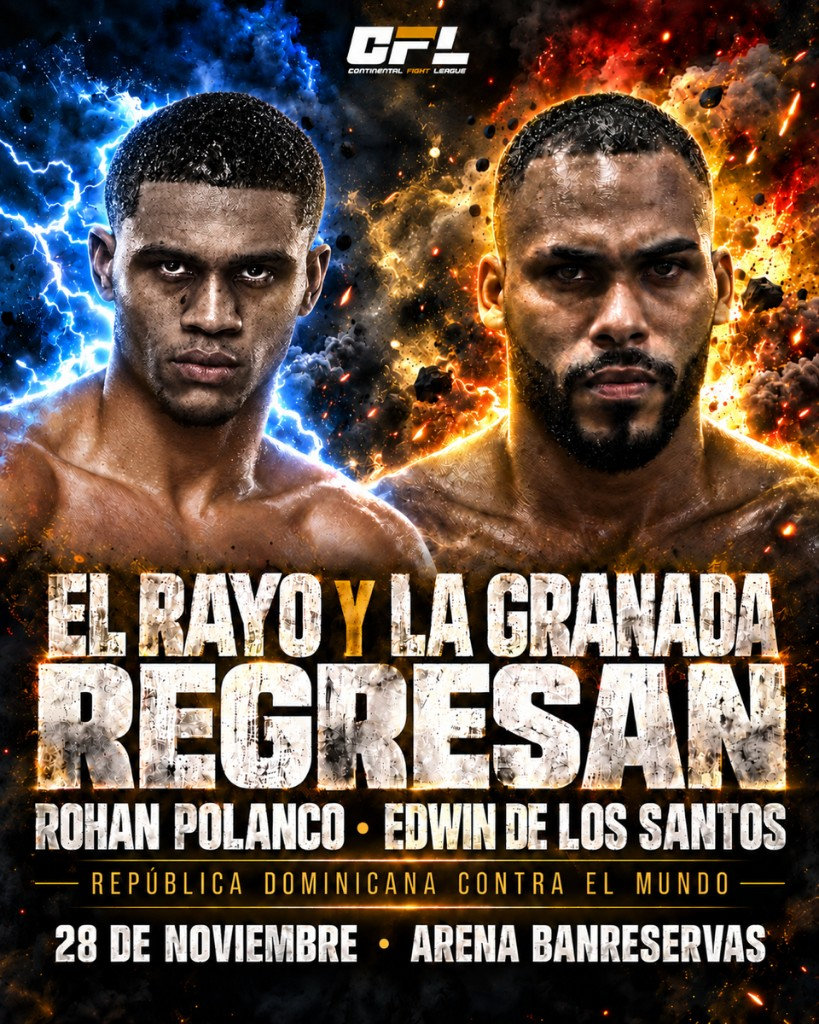
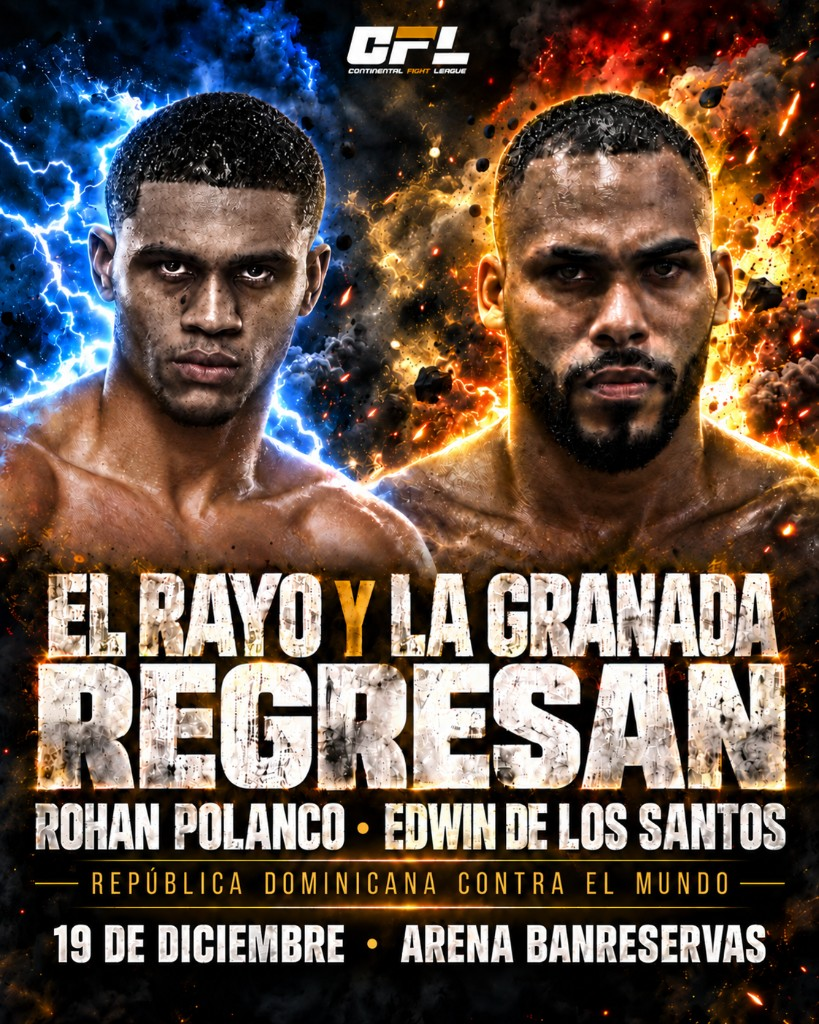
Update the homepage hero and event poster to the December 19 artwork.

diff --git a/index.html b/index.html
@@ -63,7 +63,7 @@
   <main id="main">
     <section class="hero" data-i18n-aria="hero_label" aria-label="CFL fight night">
       <div class="hero-slider" data-slider>
-        <article class="hero-slide hero-slide-premiere is-active" style="--hero-image: url('assets/cfl-arena-premiere.jpg?v=1');">
+        <article class="hero-slide hero-slide-premiere is-active" style="--hero-image: url('assets/cfl-arena-premiere.jpg?v=2');">
           <div class="hero-shade"></div>
           <div class="hero-content reveal">
             <p class="eyebrow" data-i18n="hero1_eyebrow">Fight night countdown</p>
@@ -146,7 +146,7 @@
 
       <article class="event-card reveal">
         <div class="event-card-media">
-          <img src="assets/el-rayo-y-la-granada.jpg?v=1" alt="El Rayo y La Granada regresan — Rohan Polanco y Edwin De Los Santos, 19 de diciembre, Arena Banreservas" loading="lazy" />
+          <img src="assets/el-rayo-y-la-granada.jpg?v=2" alt="El Rayo y La Granada regresan — Rohan Polanco y Edwin De Los Santos, 19 de diciembre, Arena Banreservas" loading="lazy" />
           <div class="event-date-badge">
             <span data-i18n="event_day">19</span>
             <strong data-i18n="event_month">dic</strong>

diff --git a/styles.css b/styles.css
@@ -138,7 +138,7 @@ button { color: inherit; }
  transition: opacity .85s ease, visibility .85s ease, transform 6s ease;
 }
 .hero-slide.is-active { opacity: 1; visibility: visible; transform: scale(1); }
-.hero-slide-premiere { background-position: center 38%; }
+.hero-slide-premiere { background-position: center 22%; }
 .hero-slide-fightcard {
   background-image: none;
   background-color: #050505;
@@ -1279,7 +1279,7 @@ a.partner-card:hover {
  .header-cta { display: none; }
  .hero { min-height: 860px; }
  .hero-slide { background-position: 58% center; }
- .hero-slide-premiere { background-position: center 35%; }
+ .hero-slide-premiere { background-position: center 18%; }
  .hero-shade { background: linear-gradient(0deg, rgba(0,0,0,.95) 0%, rgba(0,0,0,.75) 42%, rgba(0,0,0,.15) 76%); }
  .hero-content { left: 1.25rem; right: 1.25rem; bottom: 10.5rem; width: auto; }
  .hero h1, .hero h2 { font-size: clamp(3.3rem, 15vw, 5.5rem); }
